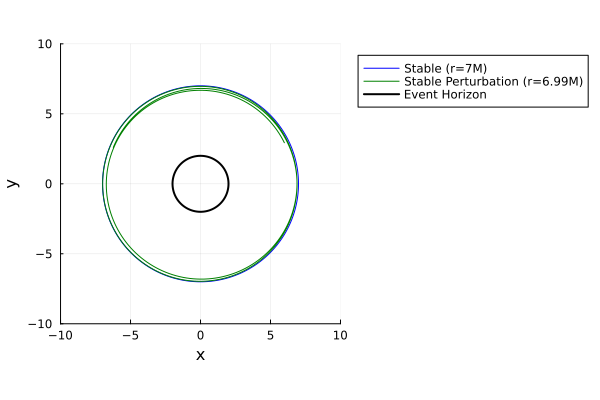
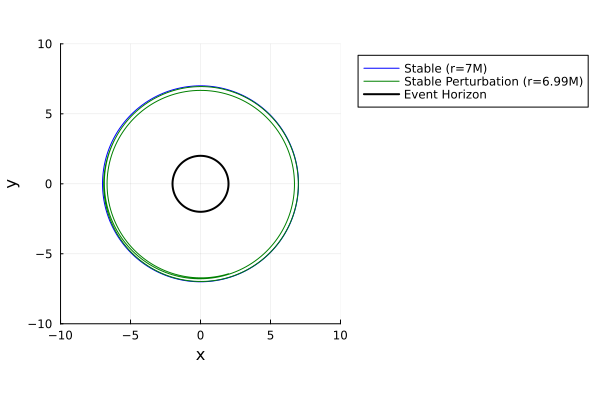
fixes

diff --git a/docs/src/kerr.md b/docs/src/kerr.md
@@ -73,6 +73,11 @@ $$\begin{aligned}
 
 \end{aligned}$$
 
+Where
+
+$$A = (r^2 + a^2)\,\Sigma + r_s a^2 r \sin^2\theta$$
+
+
 
 
 
@@ -85,13 +90,7 @@ $$\begin{aligned}
 ### Frame Dragging
 
 In the case of a spinning black hole, rotation leads to the dragging of spacetime
-in the direction of the spin, an effect known as frame dragging. It is because
-of frame dragging that different radii are observed for these orbits. A clear
-example is provided by the two distinct photon orbit radii in the Kerr spacetime. Photons may orbit in the same direction as the black hole’s rotation
-(prograde) or in the opposite direction (retrograde). Frame dragging effectively
-boosts prograde motion, allowing the prograde orbit to lie closer to the event
-horizon, while the retrograde orbit occurs at a larger radius as it opposes the
-frame dragging. The effect that frame dragging has on the photon orbit and
+in the direction of the spin, an effect known as frame dragging. Frame dragging causes orbits like the ISCO and photon orbit to vary in radius. The effect that frame dragging has on the photon orbit and
 the ISCO will increase with the angular momentum of the black hole.
 
 
@@ -105,10 +104,9 @@ the ISCO will increase with the angular momentum of the black hole.
 using Gradus
 using Makie, CairoMakie
 
-# Plot of horizon radius as a function of spin parameter a #
 
 # Create a range of a values from -1 to 1 with 200 steps
-a_values = range(-1, 1, length=200)
+a_values = range(-1.0, 1.0, length=200)
 
 # Initialize an array to store the horizon radii
 horizon_radii = zeros(length(a_values))
@@ -129,20 +127,20 @@ for (i, a) in enumerate(a_values)
     horizon_radii[i] = rs[closest_idx]
 
     # Calculate the ISCO radius
+    println("Metric: ", m)
     isco_radii[i] = Gradus.isco(m)
 
-     #Calculate the photon orbit radius
+     #Calculate the photon orbit radius for a Kerr black hole
     photon_radii[i] = 2*(1+cos((2/3)*acos(-a)))
 end
 
-# Plot the horizon radius as a function of a
+# Plot the radii as a function of a
 fig = Figure()
-ax = Axis(fig[1, 1], xlabel="Spin parameter (a)", ylabel="Horizon radius at θ=π/2")
-lines!(ax, a_values, horizon_radii, color=:blue, label="Horizon radius")
+ax = Axis(fig[1, 1], xlabel="Spin parameter (a)", ylabel="Radii at θ=π/2")
+lines!(ax, a_values, horizon_radii, color=:black, label="Horizon radius")
 lines!(ax, a_values, isco_radii, color=:red, label="ISCO radius")
-lines!(ax, a_values, photon_radii, color=:green, label="Photon orbit radius")
+lines!(ax, a_values, photon_radii, color=:blue, label="Photon orbit radius")
 axislegend(ax)  # Add a legend using the labels
-
 fig
 ```
 ```@raw html
@@ -164,7 +162,12 @@ fig
 ### Prograde and Retrograde Orbits
 
 
-A spinning black hole can have two possible photon orbits and ISCOs. One in the direction of the spinning black hole (prograde) and one against it (retrograde).
+A spinning black hole can have two possible photon orbits and ISCOs. One in the direction of the spinning black hole (prograde) and one against it (retrograde). 
+
+A clear visual representation of frame dragging is provided by the figure below. It depicts  two photons orbit a Kerr black hole. One orbits in the same direction as the black hole’s rotation (prograde)and one orbits in the opposite direction (retrograde).
+
+Frame dragging effectively boosts prograde motion, allowing the prograde orbit to lie closer to the event horizon, while the retrograde orbit occurs at a larger radius as it opposes the
+frame dragging.
 
 ```@raw html
 <details>
@@ -216,7 +219,6 @@ ylabel!("y")
 
 ![Kerr key radii](figures/double_photon_orbit_kerr.png)
 
-In this case the blue line depicts the prograde orbit and the orange line depicts the retrograde orbit.
 
 ## Line Profiles 
 

diff --git a/docs/src/schwarzschild.md b/docs/src/schwarzschild.md
@@ -89,8 +89,11 @@ sol = tracegeodesics(m, x, v, λ_max, μ=1.0)
 using Plots
 
 # plot solution trajectory
-fig3 = plot_paths(sol, label = "Particle Trajectory", color = :red)
-plot_horizon!(m, label = "Event Horizon")
+fig3 = plot_paths(sol, label = "Particle Trajectory", color = :red, n_points = 10000)
+plot_horizon!(m, label = "Event Horizon", color = :black)
+
+xlims!(-10, 10)
+ylims!(-10, 10)
 ```
 ```@raw html
 </details>
@@ -131,7 +134,7 @@ using Gradus, Plots
 
 # Schwarzschild black hole
 m = KerrMetric(M=1.0, a=0.0)
-λ_max = 2000
+λ_max = 20000
 
 # Radii
 r_stable = 7.0
@@ -248,7 +251,7 @@ ylabel!("y")
 
 
 
-### No Frame Dragging Effect
+### No Frame Dragging
 
 As Schwarzschild black holes do not spin, the photon orbit and the ISCO will have a constant radius as there is no concept of prograde or retrograde motion. The figure below demonstrates this by showing two photon orbits going round the black hole, clockwise and anti-clockwise at the same radius.
 
@@ -261,22 +264,41 @@ As Schwarzschild black holes do not spin, the photon orbit and the ISCO will hav
 ```julia
 using Gradus, Plots
 
-m = KerrMetric(M=1.5, a=0.0)
-# observer position
-x = SVector(0.0, 10000.0, π/2, 0.0)
+#Overlapping prograde and retrograde photon orbits around a Schwarzschild black hole
 
-# set up impact parameter space
-α = collect(range(-7.794, 7.794, 2))
-β = fill(0, size(α))
 
-# build initial velocity and position vectors
-vs = map_impact_parameters(m, x, α, β)
-xs = fill(x, size(vs))
+# Kerr black hole
+m = KerrMetric(M=1.0, a=0.0)
+λ_max = 2000
 
-sols = tracegeodesics(m, xs, vs, 20000.0)
+# Radii
+r_pro   = 3.0
+r_retro = 3.0
 
-fig5 = plot_paths(sols, legend = true, n_points = 2048, label = "Photon Trajectory")
-plot_horizon!(m, lw = 2.0, color = :black, label = "Event Horizon")
+# Circular geodesic velocities
+v_pro = @SVector [0.0, 0.0, 0.0, 1.1] #four velocities for circular orbits
+v_retro = @SVector [0.0, 0.0, 0.0, -1.1]
+
+# Initial positions
+x_pro    = @SVector [0.0, r_pro, π/2, 0.0]    #starting at the same position
+x_retro = @SVector [0.0, r_retro, π/2, 0.0]
+
+# Trace geodesics
+sol_pro = tracegeodesics(m, x_pro, v_pro, λ_max, μ=0.0)   #μ=0.0 is null geodesic (photon)
+sol_retro = tracegeodesics(m, x_retro, v_retro, λ_max, μ=0.0)
+# Plotting
+p = plot(aspect_ratio=1)
+
+plot_paths!(p, sol_retro, label="Clockwise orbit", color=:orange, n_points = 100000)
+plot_paths!(p, sol_pro, label="Anti-clockwise orbit", color=:blue, n_points = 100000)
+plot_horizon!(m, lw=2, color=:black, label="Event Horizon")
+
+xlims!(-10, 10)
+ylims!(-10, 10)
+
+
+xlabel!("x")
+ylabel!("y")
 ```
 ```@raw html
 </details>

diff --git a/docs/src/Minkowski.md b/docs/src/Minkowski.md
@@ -42,6 +42,15 @@ $$g_{\mu\nu} =
 
 ## Christoffel symbols
 
-$$\Gamma^{r}_{\phi\phi} = -r, \qquad
-\Gamma^{\phi}_{r\phi} = \frac{1}{r}$$
+
+$$\begin{aligned}
+\Gamma^{r}_{\theta\theta} & = -r, &
+\Gamma^{r}_{\phi\phi} & = -r\sin^2\theta, &
+\Gamma^{\theta}_{r\theta} & = \frac{1}{r}, \\[2mm]
+\Gamma^{\theta}_{\phi\phi} & = -\sin\theta\cos\theta, &
+\Gamma^{\phi}_{r\phi} & = \frac{1}{r}, &
+\Gamma^{\phi}_{\theta\phi} & = \cot\theta
+\end{aligned}$$
+
+
 

diff --git a/docs/src/Kerr-Newman.md b/docs/src/Kerr-Newman.md
@@ -34,7 +34,7 @@ $$g_{\mu\nu} =
 where  
 
 $$\Sigma = r^{2} + a^{2} \cos^{2}\theta, \quad
-\Delta = r^{2} - r_{s} r + a^{2}, \quad
+\Delta = r^{2} - r_{s} r + a^{2} + Q^{2}, \quad
 r_{s} = 2 M$$
 
 - ($t$) : time coordinate
